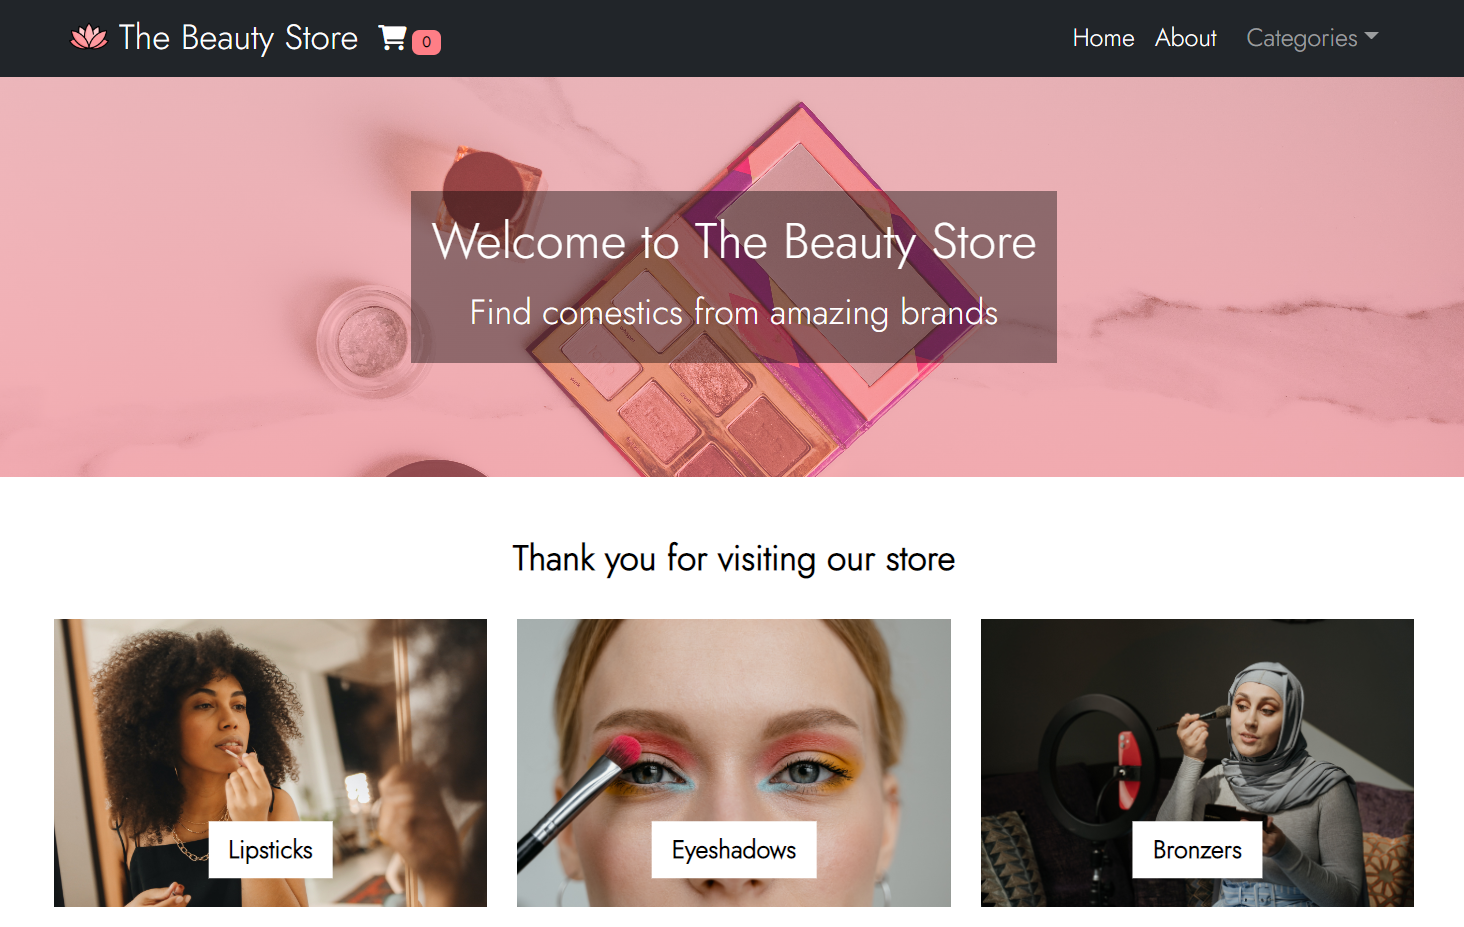
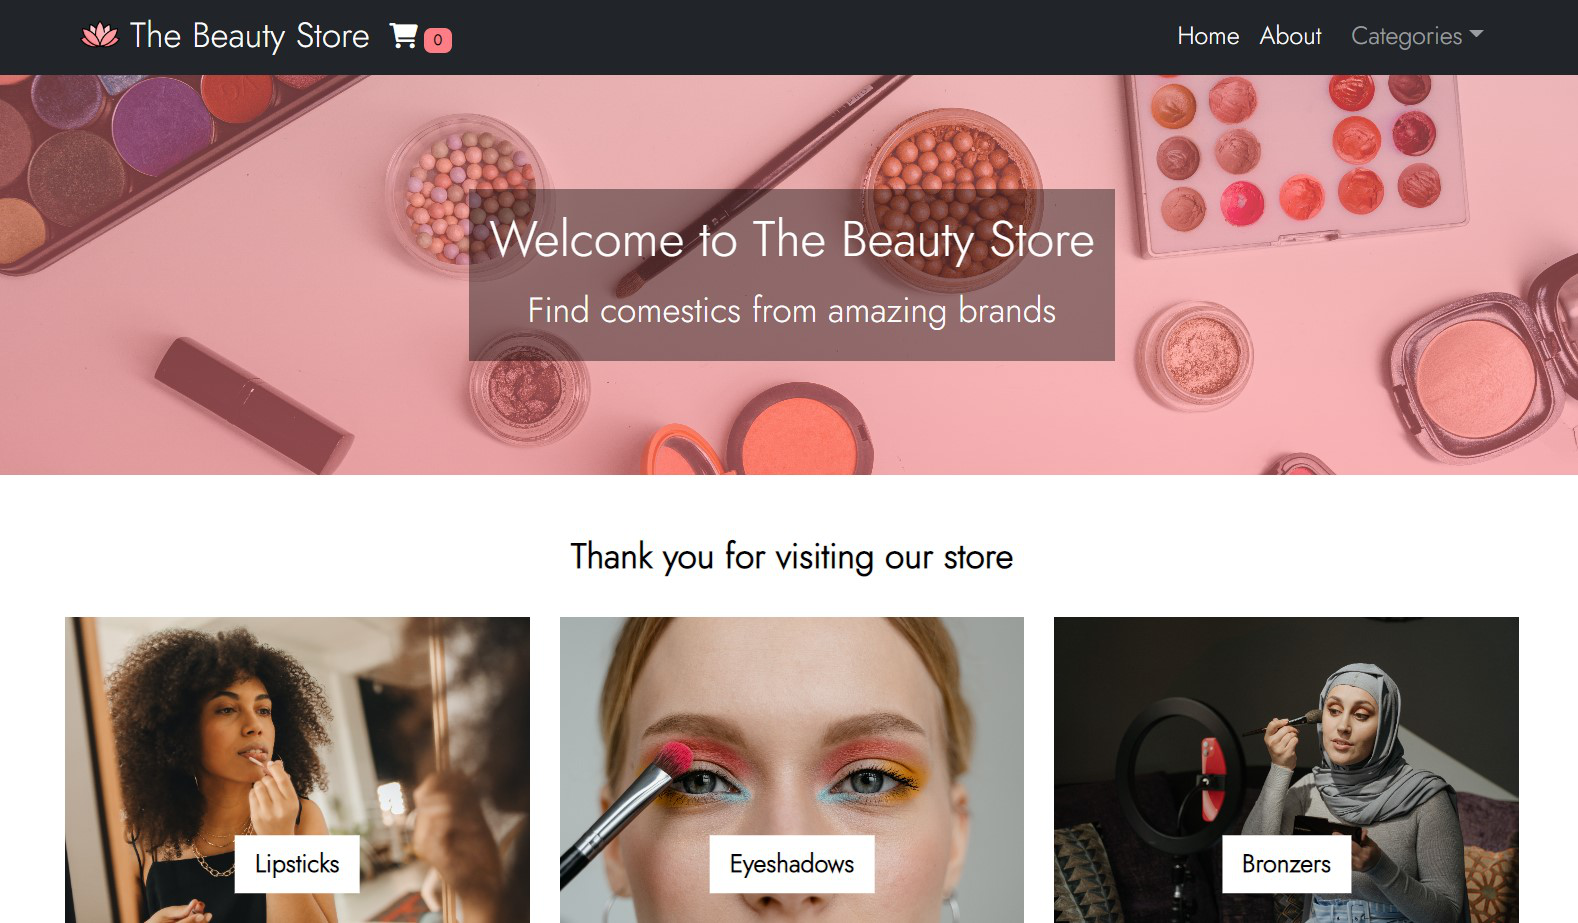
updates

diff --git a/src/pages/home.js b/src/pages/home.js
@@ -10,6 +10,7 @@ import Tiktok from "../images/tiktok.png";
 import Plus from "../images/plus-sign.png";
 import Phone from "../images/phone2.png";
 import Makeup from "../images/makeup-store.png";
+import Pic from "../images/Me.png";
 
 export const Home = () => {
 
@@ -49,11 +50,15 @@ export const Home = () => {
             >
                 <div className="d-flex justify-content-center align-items-center h-100">
                     <div className="text-white text-center">
+                        <div className='col-2 mx-auto mb-3'>
+                            <img src={Pic} className="img-fluid rounded rounded-circle" />
+                        </div>
+
                         {/* Hero Text */}
                         <h1 className="mb-3">
                             Welcome to my page!
                         </h1>
-                        <h3 className="mb-5">
+                        <h3 className="mb-4">
                             My name is Paola, I am front-end developer based in Florida, US.
                         </h3>
 
@@ -125,39 +130,33 @@ export const Home = () => {
                 />
 
                 {/* Projects */}
-                <div className='row justify-content-center flex-wrap'>
-                    <div className='col-xs-12 col-sm-11 col-md-8 col-lg-5 col-xl-5 m-3'>
-                        <div className='mx-auto'>
-                            <div className='image-container d-flex align-items-center justify-content-center h-100 w-100'>
-                                <img className="img-fluid image rounded-4 shadow-lg" src={Makeup} alt="Thumbnail for an online makeup store" />
-                                <div class="overlay rounded-4" onClick={() => setModalShow1(true)} >
-                                    <div className='d-flex align-items-center justify-content-center h-100 w-100'>
-                                        <img src={Plus} width={100} alt="Plus sign" />
-                                    </div>
+                <div className='row d-flex justify-content-around d-inline-flex flex-wrap mt-3 mb-1'>
+                    <div className='col-12 col-md-4'>
+                        <div className='imageContainer d-flex align-items-center justify-content-center h-100 w-100'>
+                            <img className="image rounded-4 border border-secondary border-2 border-opacity-50" src={Makeup} alt="Project thumbnail" />
+                            <div class="overlay rounded-4" onClick={() => setModalShow1(true)}>
+                                <div className='d-flex align-items-center justify-content-center h-100 w-100'>
+                                    <img src={Plus} alt="Plus sign" style={{ width: "30%" }} />
                                 </div>
                             </div>
                         </div>
                     </div>
-                    <div className='col-xs-12 col-sm-11 col-md-8 col-lg-5 col-xl-5 m-3'>
-                        <div className='mx-auto'>
-                            <div className='image-container d-flex align-items-center justify-content-center h-100 w-100'>
-                                <img className="img-fluid image rounded-4 shadow-lg" src={Phone} alt="Project thumbnail"/>
-                                <div class="overlay rounded-4" onClick={() => setModalShow2(true)}>
-                                    <div className='d-flex align-items-center justify-content-center h-100 w-100'>
-                                        <img src={Plus} width={100} alt="Plus sign"/>
-                                    </div>
+                    <div className='col-12 col-md-4 my-4 my-md-0'>
+                        <div className='imageContainer d-flex align-items-center justify-content-center h-100 w-100'>
+                            <img className="image rounded-4 border border-secondary border-2 border-opacity-50" src={Phone} alt="Project thumbnail" />
+                            <div class="overlay rounded-4" onClick={() => setModalShow2(true)}>
+                                <div className='d-flex align-items-center justify-content-center h-100 w-100'>
+                                    <img src={Plus} alt="Plus sign" style={{ width: "30%" }} />
                                 </div>
                             </div>
                         </div>
                     </div>
-                    <div className='col-xs-12 col-sm-11 col-md-8 col-lg-5 col-xl-5 m-3'>
-                        <div className='mx-auto'>
-                            <div className='image-container d-flex align-items-center justify-content-center h-100 w-100'>
-                                <img className="img-fluid image rounded-4 shadow-lg" src={Phone} alt="Project thumbnail"/>
-                                <div class="overlay rounded-4" onClick={() => setModalShow3(true)} >
-                                    <div className='d-flex align-items-center justify-content-center h-100 w-100'>
-                                        <img src={Plus} width={100} alt="Plus sign" />
-                                    </div>
+                    <div className='col-12 col-md-4'>
+                        <div className='imageContainer d-flex align-items-center justify-content-center h-100 w-100'>
+                            <img className="image rounded-4 border border-secondary border-2 border-opacity-50" src={Phone} alt="Project thumbnail" />
+                            <div class="overlay rounded-4" onClick={() => setModalShow3(true)}>
+                                <div className='d-flex align-items-center justify-content-center h-100 w-100'>
+                                    <img src={Plus} alt="Plus sign" style={{ width: "30%" }} />
                                 </div>
                             </div>
                         </div>
@@ -193,7 +192,7 @@ export const Home = () => {
 
                         <MDBCol lg="6" md="12" className="mt-4 mb-3">
                             <a
-                                href="www.linkedin.com/in/paola-sanchez98"
+                                href="https://www.linkedin.com/in/paola-sanchez98"
                                 style={{ textDecoration: "none" }}
                             >
                                 <span className="text-white">

diff --git a/src/components/modal1.js b/src/components/modal1.js
@@ -1,34 +1,34 @@
 import React from 'react';
 import Modal from 'react-bootstrap/Modal';
-import RoadBros from "../images/phone2.png";
-import Img from "../images/makeup-store.png"
+import { YoutubeEmbed } from './YoutubeEmbed';
 
 export const Modal1 = (props) => {
     return (
         <Modal
             {...props}
+            size="lg"
             centered
         >
             <Modal.Body>
                 <div className='d-flex justify-content-end'>
-                    <div onClick={props.onHide} className="cursor"><i class="fa-solid fa-xmark fa-3x mt-1 me-3"></i></div>
+                    <div onClick={props.onHide} className="cursor"><i class="fa-solid fa-xmark fa-3x  me-3"></i></div>
                 </div>
 
                 <div className='text-center'>
-                    <div className='mb-3'>
-                        <h1>
+                    <div className='p-0'>
+                        <h1 className='mb-3'>
                             The Beauty Store
                         </h1>
-                        <span className="fs-3">
-                            React, Bootstrap, REST API
-                        </span>
+                        <h3 className='m-0'>
+                            Made with: React, Bootstrap, and a REST API
+                        </h3>
                     </div>
 
-                    <div className="m-3 my-4">
-                        <img className="img-fluid rounded shadow" src={Img} alt="Thumbnail for an online makeup store" />
+                    <div className="m-3 m-lg-4 mx-lg-5">
+                        <YoutubeEmbed embedId="wMO8vqrIGCA" />
                     </div>
 
-                    <div className='m-3 d-flex inline-flex justify-content-around'>
+                    <div className='mx-3 my-2 d-flex inline-flex justify-content-around'>
                         <a
                             href="https://github.com/paola-codes/Makeup-Store"
                             style={{ textDecoration: "none", color: "black" }}

diff --git a/src/pages/home.css b/src/pages/home.css
@@ -5,9 +5,9 @@ body {
 }
 
 .heroBg {
-    background: linear-gradient(0deg, rgba(0, 0, 0, 0.5), rgba(0, 0, 0, 0.5)), url("../images/hero.jpg");
+    background: linear-gradient(0deg, rgba(170, 51, 106, 0.5), rgba(170, 51, 106, 0.5)), url("../images/desk2.jpg");
     width: 100%;
-    height: 500px;
+    height: 75%;
     background-repeat: no-repeat;
     background-position: center;
     background-size: cover;
@@ -15,18 +15,18 @@ body {
 }
 
 hr {
-    border-top: 5px solid black;
+    border-top: 5px double black;
 }
 
-.image-container {
+.imageContainer {
     position: relative;
-    width: 50%;
 }
 
 .image {
     display: block;
+    object-fit: cover;
     width: 100%;
-    height: auto;
+    min-height: 100%;
 }
 
 .overlay {
@@ -39,14 +39,27 @@ hr {
     width: 100%;
     opacity: 0;
     transition: .5s ease;
-    background: linear-gradient(0deg, rgba(0, 0, 0, 0.5), rgba(0, 0, 0, 0.5));
+    background: linear-gradient(0deg, rgba(170, 51, 106, 0.5), rgba(170, 51, 106, 0.5))
 }
 
-.image-container:hover .overlay {
+.imageContainer:hover .overlay {
     opacity: 1;
     cursor: pointer;
 }
 
-.cursor:hover {
-    cursor: pointer;
+.videoContainer {
+    position: relative;
+    overflow: hidden;
+    width: 100%;
+    padding-top: 50%;
+}
+
+.responsiveIframe {
+    position: absolute;
+    top: 0;
+    left: 0;
+    bottom: 0;
+    right: 0;
+    width: 100%;
+    height: 100%;
 }

diff --git a/src/components/contactForm.js b/src/components/contactForm.js
@@ -38,7 +38,7 @@ export const ContactForm = () => {
                 </label>
                 <input
                     type="text"
-                    className="form-control"
+                    className="form-control border border-dark"
                     id="exampleFormControlInput1"
                     placeholder="Type your name here"
                 />
@@ -49,7 +49,7 @@ export const ContactForm = () => {
                 </label>
                 <input
                     type="email"
-                    className="form-control"
+                    className="form-control border border-dark"
                     id="exampleFormControlInput2"
                     placeholder="nice.to.meet.you@gmail.com"
                 />
@@ -62,7 +62,7 @@ export const ContactForm = () => {
                     Message
                 </label>
                 <textarea
-                    className="form-control"
+                    className="form-control border border-dark"
                     id="exampleFormControlTextarea1"
                     rows="4"
                     placeholder="Thank you for contacting me!"

diff --git a/src/components/YoutubeEmbed.js b/src/components/YoutubeEmbed.js
@@ -1,0 +1,19 @@
+import React from "react";
+import PropTypes from "prop-types";
+
+export const YoutubeEmbed = ({ embedId }) => (
+  <div className="videoContainer">
+    <iframe
+      className="responsiveIframe"
+      src={`https://www.youtube.com/embed/${embedId}`}
+      frameBorder="0"
+      allow="autoplay;"
+      allowFullScreen
+      title="Embedded youtube"
+    />
+  </div>
+);
+
+YoutubeEmbed.propTypes = {
+  embedId: PropTypes.string.isRequired
+};
